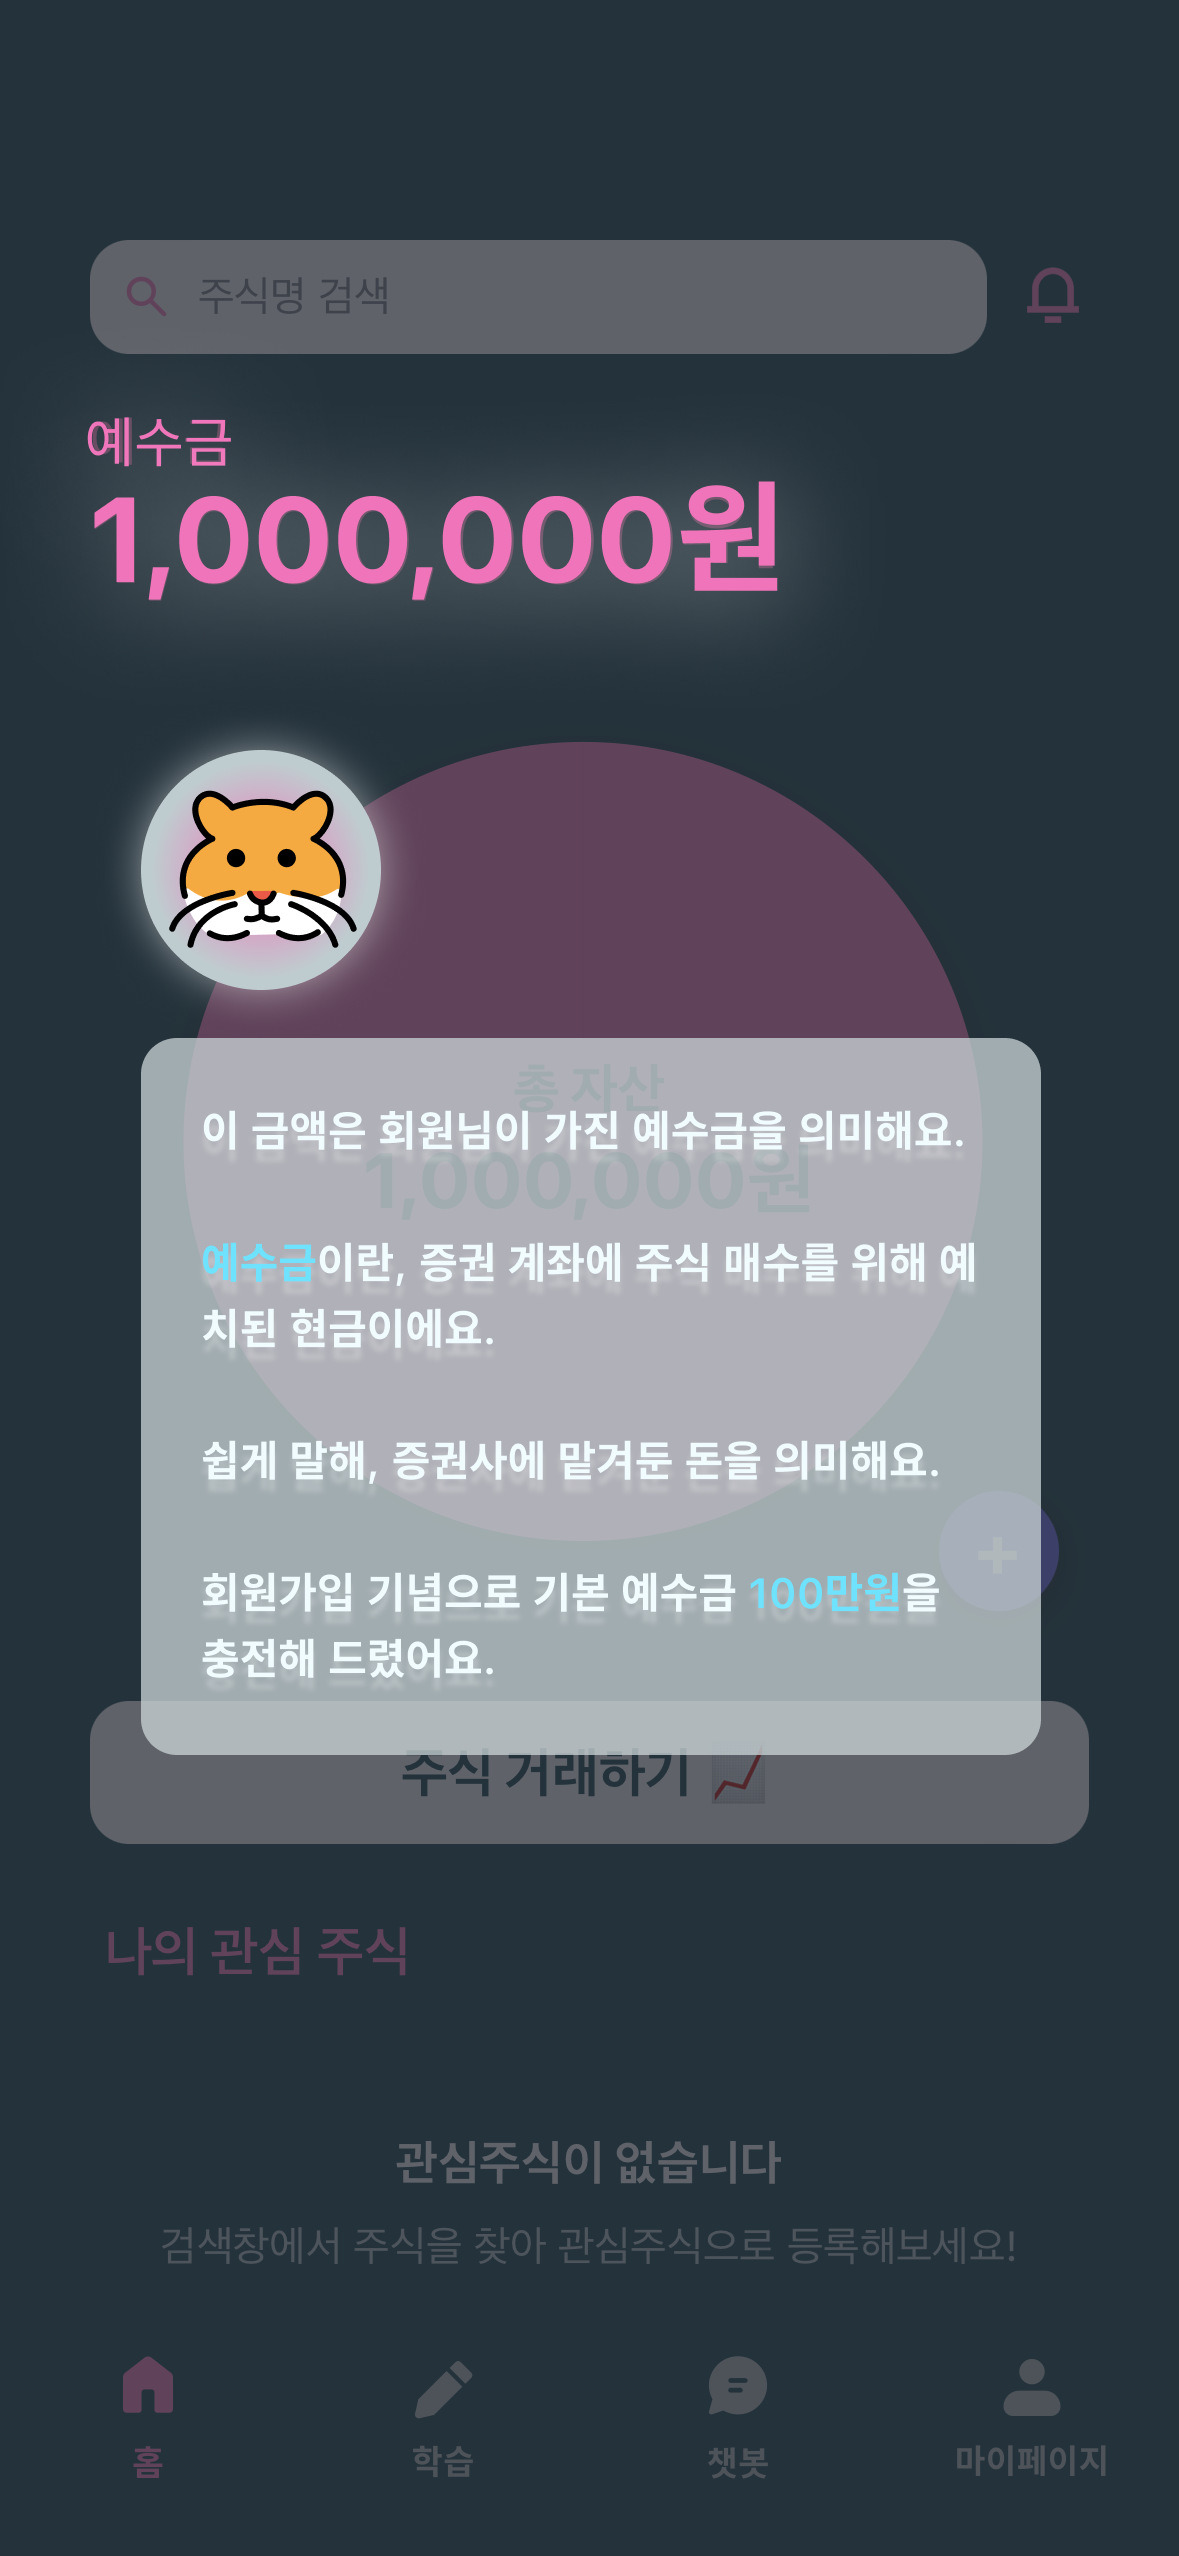
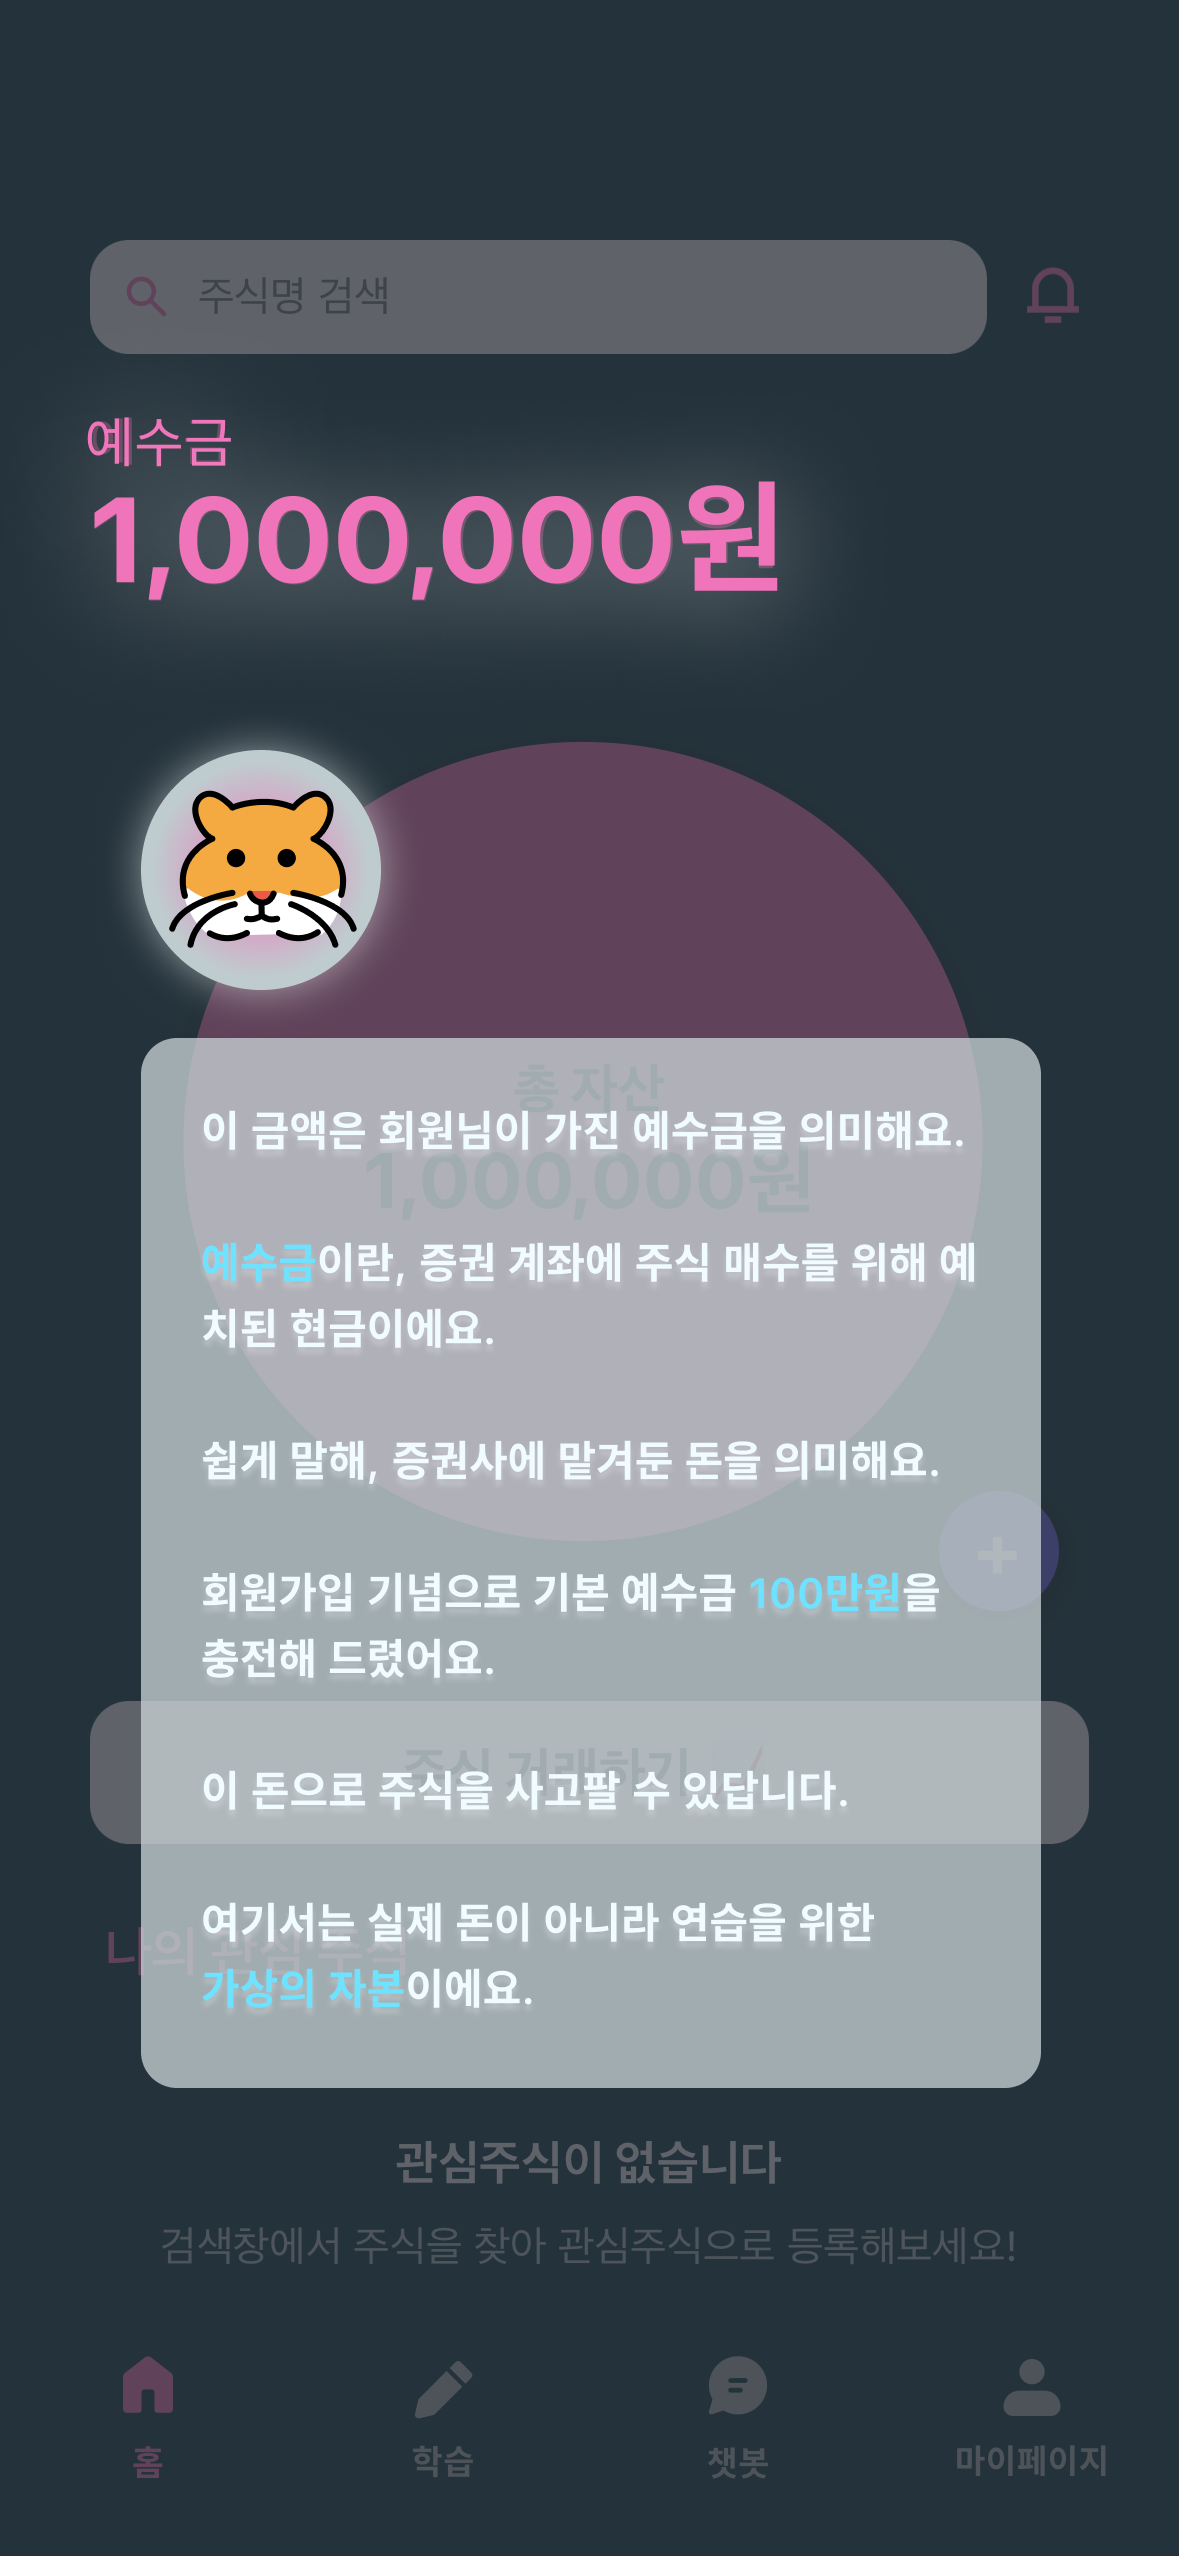
feat: 튜토리얼 화면 완료부분 추가

Changed region(s): [[0.1221, 0.68, 0.8855, 0.8345]]

diff --git a/src/screens/Guide/TutorialScreen.js b/src/screens/Guide/TutorialScreen.js
@@ -27,6 +27,12 @@ const IMAGES = [
   require("../../assets/tutorial/tutorial-14.png"),
   require("../../assets/tutorial/tutorial-15.png"),
   require("../../assets/tutorial/tutorial-16.png"),
+  require("../../assets/tutorial/tutorial-17.png"),
+  require("../../assets/tutorial/tutorial-18.png"),
+  require("../../assets/tutorial/tutorial-19.png"),
+  require("../../assets/tutorial/tutorial-20.png"),
+  require("../../assets/tutorial/tutorial-21.png"),
+  require("../../assets/tutorial/tutorial-22.png"),
 ];
 
 export default function TutorialScreen({ navigation }) {
